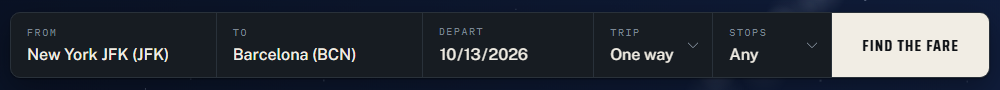
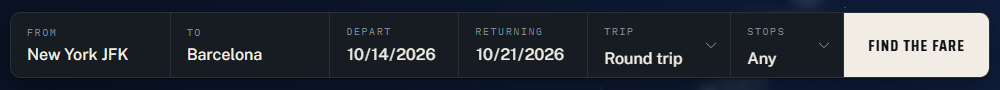
The whole box opens the dropdown, and the row survives a round trip
The select now covers its cell, so anywhere in the box opens it rather
than only the few pixels the word sits on. Checked by asking the browser
what is under the pointer at each corner, the centre, and on the caption:
the select, at all five.

Choosing a round trip added a seventh control and the row wrapped. The
cause was not width but flexbox: items default to min-width:auto, so a
date input's intrinsic width of 174px beat the 112px it was given and the
line had to break. With min-width:0 the sizes hold, and seven controls sit
on one row from 1280px up.

Then "Round trip" itself was being clipped to "Round tr", so its cell is
sized against its longest option rather than its shortest -- measured, 79px
of text in 142px of space.

Fixing that clipped "New York JFK (JF" instead, seven controls in 980px
being genuinely tight. The code was in the field twice: once in the value
and again in the suggestion list down the right. The field now says
"New York JFK" and the list keeps the code, which is where it was useful.
Nothing clips at any width.

Every dropdown on the page also draws the same chevron now -- the refine
bar was still using stacked gradients -- and a focused field takes an
accent underline, the same colour the results use to mark what is live.

Claude-Session: https://claude.ai/code/session_01EMLBVdECybqViAWRes9Fjs

diff --git a/flight-price-map/trip.html b/flight-price-map/trip.html
@@ -315,17 +315,21 @@ form.finder {
 @media (max-width:1023px) {
   .finder > :first-child, .finder > .go { border-radius:9px; }
 }
-.cell { background:var(--panel); padding:11px 16px; flex:1 1 140px;
+.cell { background:var(--panel); padding:11px 16px; flex:1 1 132px;
+        min-width:0;
         display:flex; flex-direction:column; justify-content:center; }
-.cell.narrow { flex:0 1 118px; }
-.cell.wide { flex:1.2 1 168px; }
+.cell.narrow { flex:0 1 112px; }
+.cell.date { flex:0 1 128px; }
+.cell.trip { flex:0 1 142px; }
+.cell.wide { flex:1.2 1 156px; }
 .cell label { font-family:"IBM Plex Mono", monospace; font-size:10px;
               letter-spacing:.16em; text-transform:uppercase;
               color:var(--ink-3); }
 .cell { position:relative; }
 .cell input, .cell select {
   border:0; background:none; color:var(--ink); font-size:16px; font-weight:500;
-  font-family:inherit; padding:3px 0 0; width:100%; line-height:1.35;
+  font-family:inherit; padding:3px 0 0; width:100%; min-width:0;
+  line-height:1.35;
 }
 .cell input:focus, .cell select:focus { outline:none; }
 /* The browser draws the calendar button as a dark glyph, which vanishes on a
@@ -433,8 +437,15 @@ select option { background:var(--panel); color:var(--ink); }
 /* A drawn chevron on the cell, rather than two gradient triangles on the
    select: the select cannot carry a pseudo-element, and stacked gradients go
    chunky at the sizes this row uses. */
-.cell.chooser { padding-right:34px; }
-.cell.chooser select { padding-right:0 !important; }
+/* The select covers the whole cell, so the entire box opens it rather than
+   only the few pixels the word sits on. The caption rides above it and lets
+   clicks through. */
+.cell.chooser { padding-right:34px; justify-content:flex-start; }
+.cell.chooser > label { position:relative; z-index:1; pointer-events:none; }
+.cell.chooser select {
+  position:absolute; inset:0; width:100%; height:100%;
+  padding:26px 34px 0 16px !important; margin:0; line-height:1.2;
+}
 .cell.chooser::after {
   content:""; position:absolute; right:15px; top:50%; width:7px; height:7px;
   margin-top:-6px; pointer-events:none; transform:rotate(45deg);
@@ -444,19 +455,22 @@ select option { background:var(--panel); color:var(--ink); }
 .cell.chooser:hover::after, .cell.chooser:focus-within::after {
   border-right-color:var(--accent); border-bottom-color:var(--accent);
 }
-.sel select {
-  background-image:
-    linear-gradient(45deg, transparent 50%, currentColor 50%),
-    linear-gradient(135deg, currentColor 50%, transparent 50%);
-  background-size:4px 4px, 4px 4px;
-  background-position:calc(100% - 8px) center, calc(100% - 4px) center;
-  background-repeat:no-repeat;
+.sel { position:relative; padding-right:28px; }
+.sel::after {
+  content:""; position:absolute; right:12px; top:50%; width:6px; height:6px;
+  margin-top:-5px; pointer-events:none; transform:rotate(45deg);
+  border-right:1.7px solid var(--ink-3); border-bottom:1.7px solid var(--ink-3);
+  border-radius:0 0 2px 0; transition:border-color .15s;
 }
-.cell:focus-within { background:var(--raise); }
+.sel:hover::after, .sel:focus-within::after {
+  border-right-color:var(--accent); border-bottom-color:var(--accent);
+}
+.sel select { padding-right:0; }
+.cell:focus-within { background:var(--raise); box-shadow:inset 0 -2px 0 var(--accent); }
 .go {
   border:0; cursor:pointer; background:var(--ink); color:var(--ground);
   font-family:"Saira Condensed", sans-serif; text-transform:uppercase;
-  letter-spacing:.07em; font-weight:700; font-size:16px; padding:0 30px;
+  letter-spacing:.07em; font-weight:700; font-size:16px; padding:0 24px;
   flex:0 0 auto;
 }
 .go:hover { background:var(--accent); }
@@ -657,7 +671,7 @@ select option { background:var(--panel); color:var(--ink); }
           <label for="when">Depart</label>
           <select id="when" name="when"></select>
         </div>
-        <div class="cell narrow chooser">
+        <div class="cell trip chooser">
           <label for="trip">Trip</label>
           <select id="trip" name="trip">
             <option value="oneway">One way</option>
@@ -1145,6 +1159,10 @@ function fit(panel, anchor) {
   }
 }
 
+// "London Heathrow (LHR)" -> "London Heathrow". The code stays visible in the
+// suggestion list, where it costs nothing, rather than in a field it overflows.
+const plainName = label => String(label).replace(/[ ]*[(][A-Za-z]{3}[)][ ]*$/, "");
+
 function combo(inputId, listId) {
   const input = document.getElementById(inputId);
   const list = document.getElementById(listId);
@@ -1177,7 +1195,7 @@ function combo(inputId, listId) {
   };
   const take = i => {
     if (!items[i]) return;
-    input.value = items[i].label;
+    input.value = plainName(items[i].label);
     close();
   };
 

diff --git a/flight-price-map/trip.py b/flight-price-map/trip.py
@@ -56,17 +56,21 @@ form.finder {
 @media (max-width:1023px) {
   .finder > :first-child, .finder > .go { border-radius:9px; }
 }
-.cell { background:var(--panel); padding:11px 16px; flex:1 1 140px;
+.cell { background:var(--panel); padding:11px 16px; flex:1 1 132px;
+        min-width:0;
         display:flex; flex-direction:column; justify-content:center; }
-.cell.narrow { flex:0 1 118px; }
-.cell.wide { flex:1.2 1 168px; }
+.cell.narrow { flex:0 1 112px; }
+.cell.date { flex:0 1 128px; }
+.cell.trip { flex:0 1 142px; }
+.cell.wide { flex:1.2 1 156px; }
 .cell label { font-family:"IBM Plex Mono", monospace; font-size:10px;
               letter-spacing:.16em; text-transform:uppercase;
               color:var(--ink-3); }
 .cell { position:relative; }
 .cell input, .cell select {
   border:0; background:none; color:var(--ink); font-size:16px; font-weight:500;
-  font-family:inherit; padding:3px 0 0; width:100%; line-height:1.35;
+  font-family:inherit; padding:3px 0 0; width:100%; min-width:0;
+  line-height:1.35;
 }
 .cell input:focus, .cell select:focus { outline:none; }
 /* The browser draws the calendar button as a dark glyph, which vanishes on a
@@ -174,8 +178,15 @@ select option { background:var(--panel); color:var(--ink); }
 /* A drawn chevron on the cell, rather than two gradient triangles on the
    select: the select cannot carry a pseudo-element, and stacked gradients go
    chunky at the sizes this row uses. */
-.cell.chooser { padding-right:34px; }
-.cell.chooser select { padding-right:0 !important; }
+/* The select covers the whole cell, so the entire box opens it rather than
+   only the few pixels the word sits on. The caption rides above it and lets
+   clicks through. */
+.cell.chooser { padding-right:34px; justify-content:flex-start; }
+.cell.chooser > label { position:relative; z-index:1; pointer-events:none; }
+.cell.chooser select {
+  position:absolute; inset:0; width:100%; height:100%;
+  padding:26px 34px 0 16px !important; margin:0; line-height:1.2;
+}
 .cell.chooser::after {
   content:""; position:absolute; right:15px; top:50%; width:7px; height:7px;
   margin-top:-6px; pointer-events:none; transform:rotate(45deg);
@@ -185,19 +196,22 @@ select option { background:var(--panel); color:var(--ink); }
 .cell.chooser:hover::after, .cell.chooser:focus-within::after {
   border-right-color:var(--accent); border-bottom-color:var(--accent);
 }
-.sel select {
-  background-image:
-    linear-gradient(45deg, transparent 50%, currentColor 50%),
-    linear-gradient(135deg, currentColor 50%, transparent 50%);
-  background-size:4px 4px, 4px 4px;
-  background-position:calc(100% - 8px) center, calc(100% - 4px) center;
-  background-repeat:no-repeat;
+.sel { position:relative; padding-right:28px; }
+.sel::after {
+  content:""; position:absolute; right:12px; top:50%; width:6px; height:6px;
+  margin-top:-5px; pointer-events:none; transform:rotate(45deg);
+  border-right:1.7px solid var(--ink-3); border-bottom:1.7px solid var(--ink-3);
+  border-radius:0 0 2px 0; transition:border-color .15s;
 }
-.cell:focus-within { background:var(--raise); }
+.sel:hover::after, .sel:focus-within::after {
+  border-right-color:var(--accent); border-bottom-color:var(--accent);
+}
+.sel select { padding-right:0; }
+.cell:focus-within { background:var(--raise); box-shadow:inset 0 -2px 0 var(--accent); }
 .go {
   border:0; cursor:pointer; background:var(--ink); color:var(--ground);
   font-family:"Saira Condensed", sans-serif; text-transform:uppercase;
-  letter-spacing:.07em; font-weight:700; font-size:16px; padding:0 30px;
+  letter-spacing:.07em; font-weight:700; font-size:16px; padding:0 24px;
   flex:0 0 auto;
 }
 .go:hover { background:var(--accent); }
@@ -398,7 +412,7 @@ TEMPLATE = """__HEAD__
           <ul class="options" id="to-list" role="listbox" hidden></ul>
         </div>
 __WHEN_CELLS__
-        <div class="cell narrow chooser">
+        <div class="cell trip chooser">
           <label for="trip">Trip</label>
           <select id="trip" name="trip">
             <option value="oneway">One way</option>
@@ -624,6 +638,10 @@ function fit(panel, anchor) {
   }
 }
 
+// "London Heathrow (LHR)" -> "London Heathrow". The code stays visible in the
+// suggestion list, where it costs nothing, rather than in a field it overflows.
+const plainName = label => String(label).replace(/[ ]*[(][A-Za-z]{3}[)][ ]*$/, "");
+
 function combo(inputId, listId) {
   const input = document.getElementById(inputId);
   const list = document.getElementById(listId);
@@ -656,7 +674,7 @@ function combo(inputId, listId) {
   };
   const take = i => {
     if (!items[i]) return;
-    input.value = items[i].label;
+    input.value = plainName(items[i].label);
     close();
   };
 
@@ -1302,11 +1320,11 @@ WHEN_STORED = """        <div class="cell chooser">
           <select id="when" name="when"></select>
         </div>"""
 
-WHEN_LIVE = """        <div class="cell">
+WHEN_LIVE = """        <div class="cell date">
           <label for="when">Depart</label>
           <input type="date" id="when" name="when" required>
         </div>
-        <div class="cell narrow chooser" id="retcell" hidden>
+        <div class="cell date" id="retcell" hidden>
           <label for="retdate">Returning</label>
           <input type="date" id="retdate" name="retdate">
         </div>"""
@@ -1399,9 +1417,11 @@ def main() -> None:
             .replace("__AGE__", theme.AGE)
             .replace("__WHEN_CELLS__", WHEN_LIVE if args.live else WHEN_STORED)
             .replace("__DEF_FROM__",
-                     tripslib.place_label("JFK") if args.live else lead["from_full"])
+                     tripslib.place_label("JFK").rsplit(" (", 1)[0] if args.live
+                     else lead["from_full"])
             .replace("__DEF_TO__",
-                     tripslib.place_label("BCN") if args.live else lead["to_label"])
+                     tripslib.place_label("BCN").rsplit(" (", 1)[0] if args.live
+                     else lead["to_label"])
             .replace("__PROOF_PRICE__", money_str(best["price"]))
             .replace("__PROOF_TEXT__", proof_text)
             .replace("__PROOF_SUB__", proof_sub)
